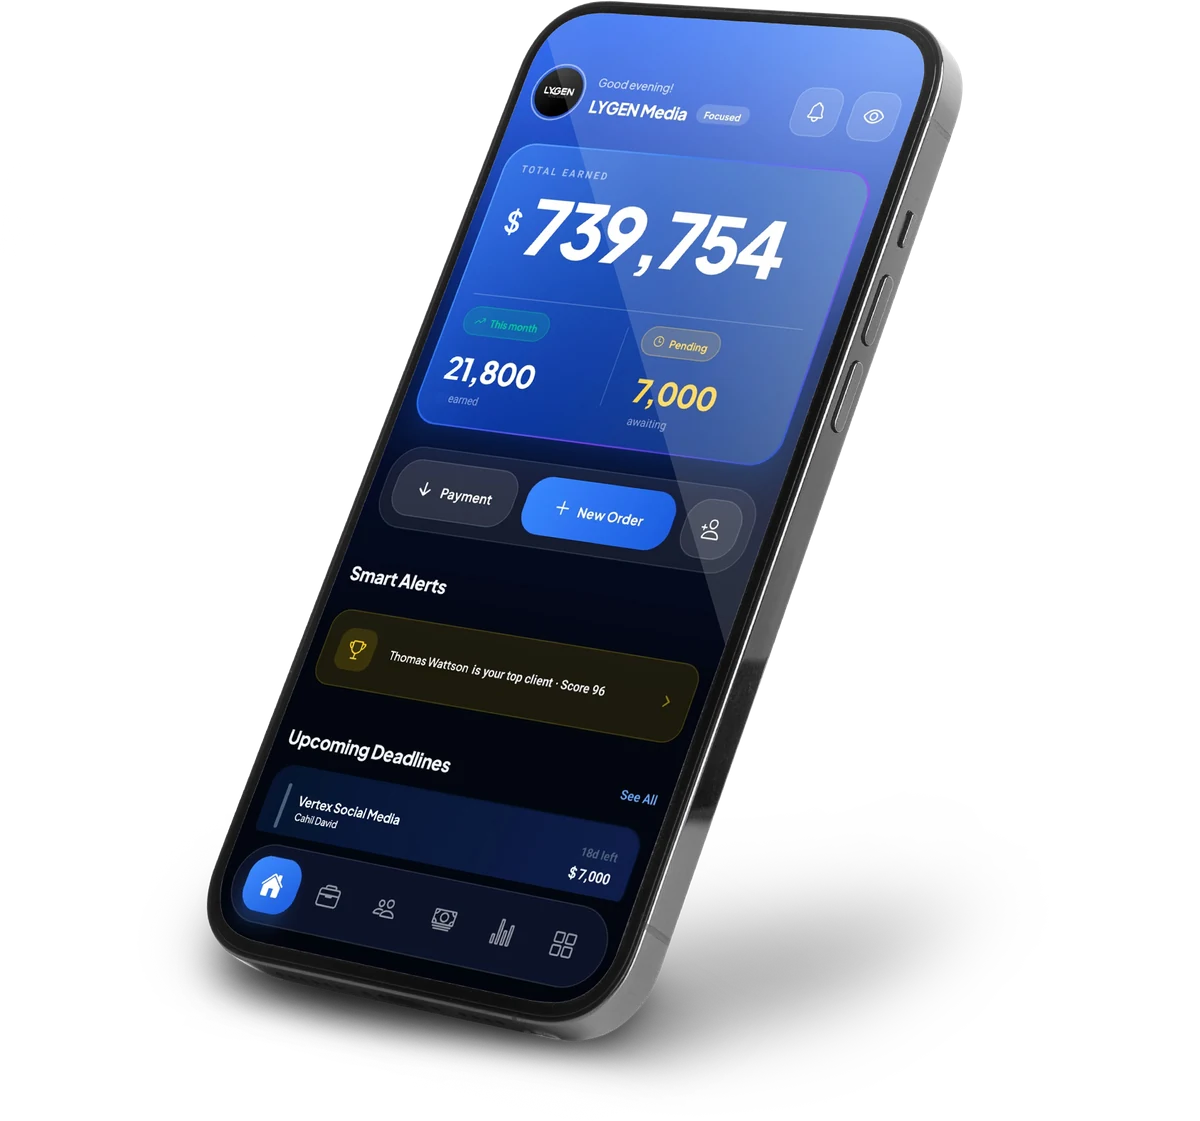
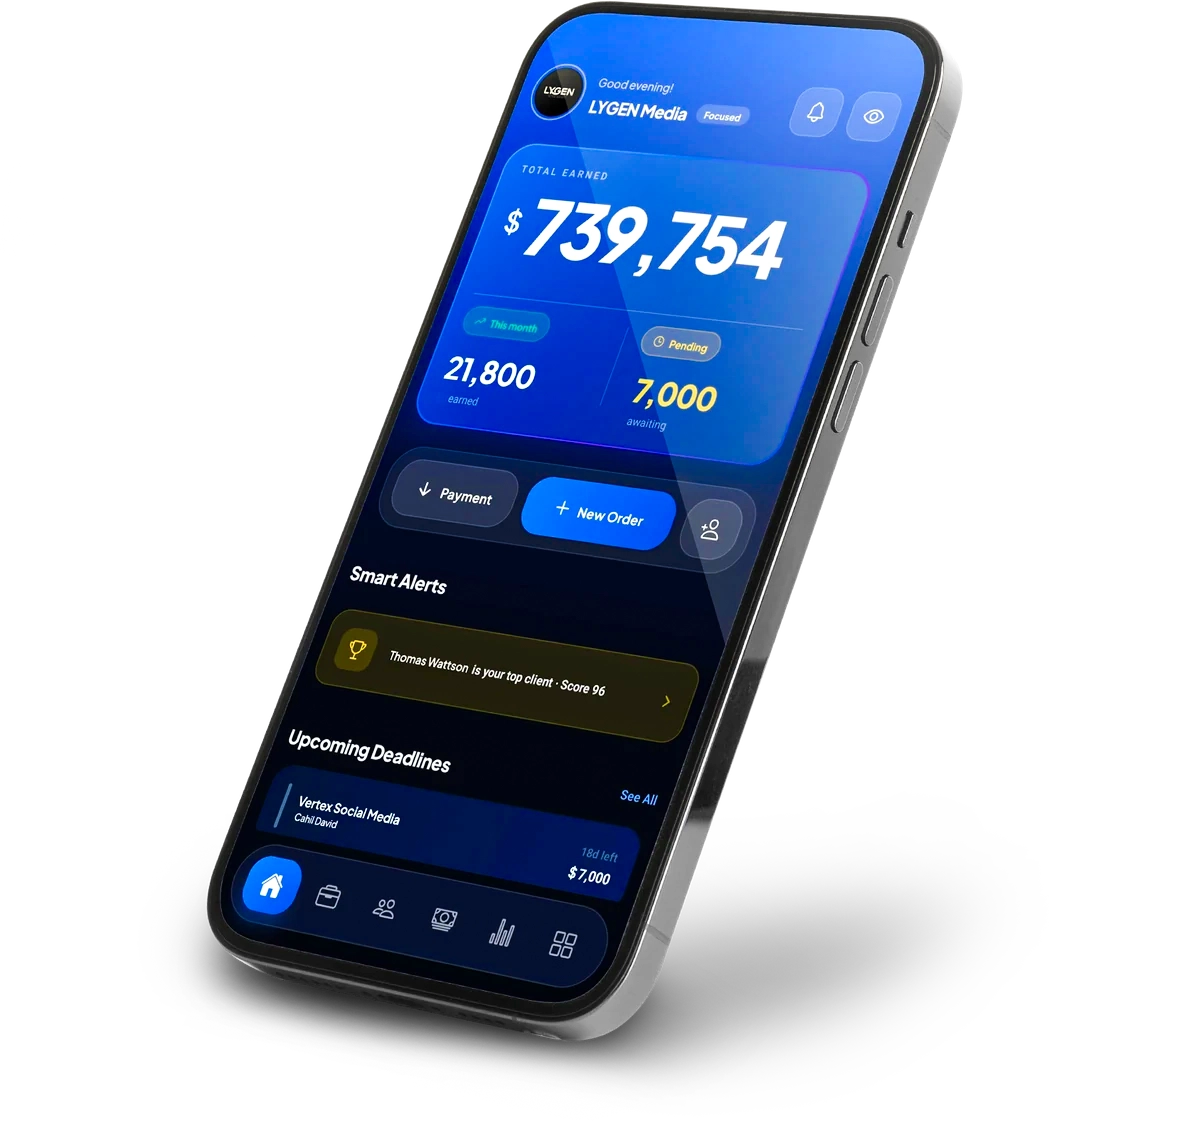
Blog read counts, new gradients

diff --git a/src/scripts/motion.ts b/src/scripts/motion.ts
@@ -2,9 +2,8 @@
 // Everything is skipped for visitors who ask for reduced motion, and the page works without it.
 import { gsap } from "gsap";
 import { ScrollTrigger } from "gsap/ScrollTrigger";
-import { SplitText } from "gsap/SplitText";
 
-gsap.registerPlugin(ScrollTrigger, SplitText);
+gsap.registerPlugin(ScrollTrigger);
 
 const root = document.documentElement;
 const reduce = window.matchMedia("(prefers-reduced-motion: reduce)").matches;
@@ -41,27 +40,19 @@ if (reduce) {
 } else {
   setupPageWipe();
 
-  // ── headlines: words rise out of a mask, line by line ───────────────
+  // ── headlines: a soft fade up, the whole heading at once ────────────
+  const HEAD_SCOPE = ".hero, .nf, .as-hero, .ct-hero, .wn-hero, .hc-hero, .blog-hero, .tp-hero, .hg-head, .post-head";
   const headings = $$("h1, .big, .final h2, .post-title, .hc-hero h1");
   headings.forEach((el) => {
-    SplitText.create(el, {
-      type: "lines",
-      mask: "lines",
-      maskClass: "split-mask",
-      autoSplit: true,
-      onSplit(self) {
-        return gsap.from(self.lines, {
-          yPercent: 115,
-          rotate: 2,
-          duration: 1.05,
-          ease: "power4.out",
-          stagger: 0.1,
-          delay: el.closest(".hero, .nf, .as-hero, .ct-hero, .wn-hero, .hc-hero, .blog-hero, .tp-hero, .hg-head, .post-head") ? 0.15 : 0,
-          scrollTrigger: el.closest(".hero, .nf, .as-hero, .ct-hero, .wn-hero, .hc-hero, .blog-hero, .tp-hero, .hg-head, .post-head")
-            ? undefined
-            : { trigger: el, start: "top 88%", once: true },
-        });
-      },
+    const inHead = !!el.closest(HEAD_SCOPE);
+    gsap.from(el, {
+      y: 22,
+      opacity: 0,
+      duration: 0.9,
+      ease: "power2.out",
+      delay: inHead ? 0.1 : 0,
+      clearProps: "transform",
+      scrollTrigger: inHead ? undefined : { trigger: el, start: "top 88%", once: true },
     });
   });
   ready();
@@ -72,12 +63,6 @@ if (reduce) {
     .from(".hero-tag, .kicker", { y: 16, opacity: 0, duration: 0.8, stagger: 0.05 }, 0.2)
     .from(".hero .lead, .nf .lead, .blog-hero .lead, .tp-hero .lead, .hc-hero .search", { y: 28, opacity: 0, duration: 0.9 }, 0.7)
     .from(".hero-cta > *, .hero-cta-2 > *, .nf-actions > *", { y: 30, opacity: 0, scale: 0.94, duration: 0.8, stagger: 0.09 }, 0.85);
-
-  // headline drifts up and fades as you scroll past the hero
-  const heroInner = document.querySelector<HTMLElement>(".hero-inner");
-  if (heroInner && wide) {
-    gsap.to(heroInner, { yPercent: -12, opacity: 0.25, ease: "none", scrollTrigger: { trigger: ".hero", start: "top top", end: "bottom top", scrub: true } });
-  }
 
   // ── scroll reveals ──────────────────────────────────────────────────
   const groups = [
@@ -114,7 +99,7 @@ if (reduce) {
 
   // ── magnetic buttons (mouse only) ───────────────────────────────────
   if (fine) {
-    $$(".btn-primary, .btn-white, .nav-cta, .as-badge, .gp, .btn-ghost").forEach((el) => {
+    $$(".btn-primary, .btn-white, .nav-cta, .as-badge, .gp, .btn-ghost").filter((el) => !el.closest(".hero")).forEach((el) => {
       const xTo = gsap.quickTo(el, "x", { duration: 0.5, ease: "power3.out" });
       const yTo = gsap.quickTo(el, "y", { duration: 0.5, ease: "power3.out" });
       el.addEventListener("pointermove", (e) => {

diff --git a/src/content/help.ts b/src/content/help.ts
@@ -21,7 +21,7 @@ export const guides: HelpGuide[] = [
 <p>FreelanceDesk keeps your clients, orders, invoices and payments on your phone. There is no account to create and nothing to sign in to. Here is the quickest way to get set up.</p>
 
 <h2>1. Install and open the app</h2>
-<p>Install FreelanceDesk from Google Play. The first time you open it, a short setup walks you through the basics. You can start with a 7-day free trial if you are a new subscriber.</p>
+<p>Install FreelanceDesk from Google Play. The first time you open it, a short setup walks you through the basics. It is free to start, with up to 5 orders. Upgrade to Premium any time for unlimited orders and more.</p>
 
 <h2>2. Fill in your business profile</h2>
 <p>Add the details that appear on your invoices:</p>
@@ -298,15 +298,21 @@ export const guides: HelpGuide[] = [
   },
   {
     slug: "subscription-and-trial",
-    title: "Subscription, free trial and cancelling",
-    description: "How the 7-day free trial and the monthly subscription work, and how to cancel in Google Play.",
+    title: "Free plan, Premium and cancelling",
+    description: "What the free plan includes, what Premium adds, how the free trial works, and how to cancel in Google Play.",
     group: "Your data and account",
     body: `
-<h2>The free trial</h2>
-<p>New subscribers can try FreelanceDesk free for 7 days. Google Play decides who is eligible for the trial.</p>
+<h2>The free plan</h2>
+<p>FreelanceDesk is free to download and use. The free plan includes unlimited clients, up to 5 orders, the Classic and Minimal invoice templates, payments, reminders, tax, backup and restore, CSV export and PIN lock.</p>
 
-<h2>The subscription</h2>
-<p>After the trial it costs $1.99 per month, billed by Google Play. Prices may vary by country. The subscription includes unlimited clients, orders, invoices and quotations.</p>
+<h2>Premium</h2>
+<p>Premium unlocks unlimited orders, all 20 invoice templates, quotations, e-signatures, income analytics, monthly and yearly recaps and fingerprint or face unlock. It costs $1.99 per month or $14.99 per year, billed by Google Play. Prices may vary by country.</p>
+
+<h2>The free trial</h2>
+<p>New Premium subscribers can try it free before the first payment. Google Play decides who is eligible for the trial.</p>
+
+<h2>If your subscription ends</h2>
+<p>Nothing is deleted. You keep all your clients, orders and invoices and can still view and share them. You can add new orders up to the free limit, and Premium features lock until you subscribe again.</p>
 
 <h2>Cancel</h2>
 <p>You manage the subscription in Google Play, not in the app:</p>

diff --git a/src/styles/global.css b/src/styles/global.css
@@ -226,7 +226,7 @@ h1 em, h2 em, h3 em, .serif-em { font-family: var(--serif); font-style: italic; 
 .sec-light .btn-ghost { background: #f1f5ff; border-color: rgba(10,20,51,.14); color: #0a1433; backdrop-filter: none; }
 .sec-blue { background: linear-gradient(118deg, #0a2cb0 0%, #1654e6 30%, #2f84ff 58%, #1448d4 82%, #0a2896 100%); color: #fff; --line: rgba(255,255,255,.22); --line-soft: rgba(255,255,255,.14); --muted: rgba(255,255,255,.7); --soft: rgba(255,255,255,.88); }
 .sec-blue .kicker { color: #d6e6ff; }
-.sec-night { background: linear-gradient(180deg, #050b24 0%, #0a1d6a 100%); color: #fff; }
+.sec-night { background: radial-gradient(75% 90% at 82% -10%, rgba(47,132,255,.9) 0%, rgba(47,132,255,0) 62%), radial-gradient(60% 80% at 8% 112%, rgba(26,84,230,.78) 0%, rgba(26,84,230,0) 65%), linear-gradient(112deg, rgba(3,8,34,0) 24%, rgba(37,120,255,.45) 48%, rgba(3,8,34,0) 72%), linear-gradient(180deg, #030820 0%, #061548 50%, #0b2490 100%); color: #fff; }
 
 /* ── motion ── */
 .js:not(.motion-ready) :is(h1, .big, .final h2, .post-title) { visibility: hidden; }
